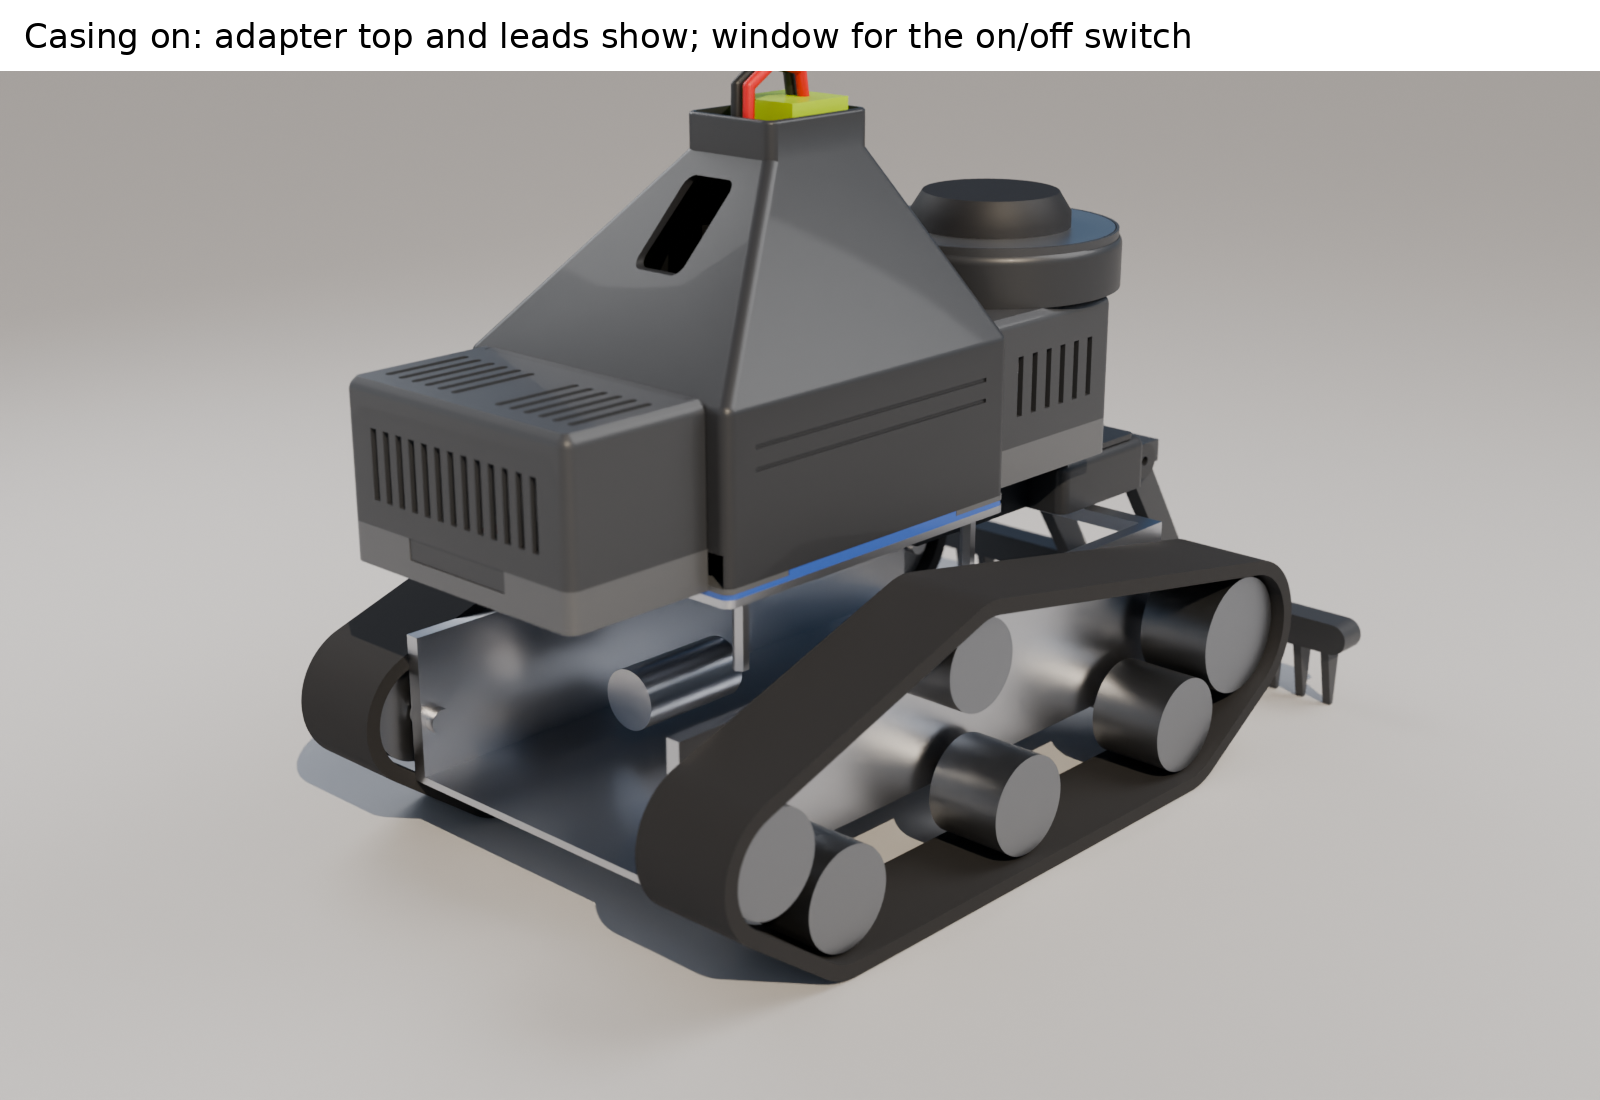
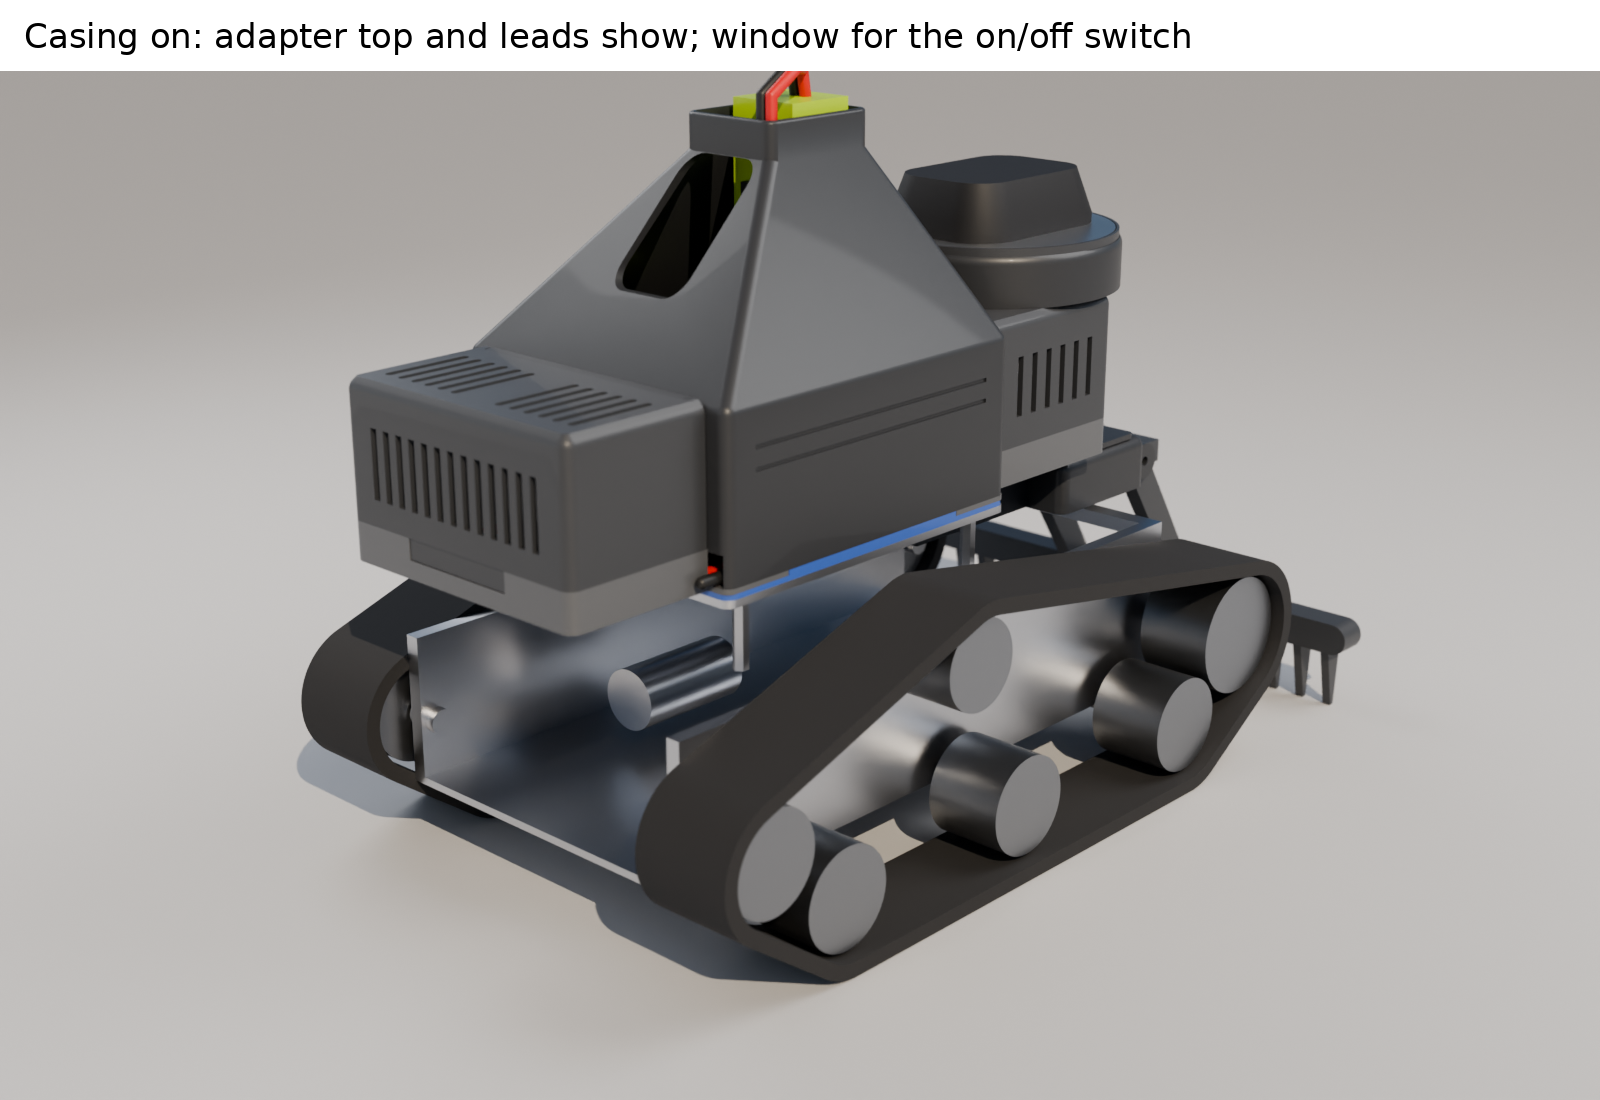
Show the battery leads' real route; model the ANN-MB antenna
The wiring diagram and 3D pictures had the adapter leads crossing the
middle of the battery. They now go down the front of the upright to the
left of the switch, over the front of the battery top, and down the gap
outside the left cradle wall (fuse holder there) into the left lane.
New front-view diagram and a hood-off render of the route.

The antenna pod pictures now show the u-blox ANN-MB at its real size
(82 x 60 x 22.5) on the steel ground plate. No printed part changes.

Claude-Session: https://claude.ai/code/session_011AZmCYsDWcDznu3RCMf8yA

Changed region(s): [[0.375, 0.0618, 0.5, 0.2782], [0.5625, 0.1236, 0.6875, 0.2164]]

diff --git a/CAD/DeckMount/drawings/make_drawings.py b/CAD/DeckMount/drawings/make_drawings.py
@@ -236,7 +236,7 @@ def wiring_drawing():
     for y in (by0 - 1 - WALL, by0 + BW + 1):
         ax.add_patch(Rectangle((bx0 + 3, y), BAY_L - 8, WALL, fc=BLUE, ec="none", alpha=0.6))
     ax.add_patch(Rectangle((bx0, by0), BL, BW, fc=ORANGE, ec="k", alpha=0.35))
-    ax.add_patch(Rectangle(((PL - AD_L) / 2, (PW - AD_W) / 2), AD_L, AD_W, fc=YEL, ec="k", alpha=0.5))
+    ax.add_patch(Rectangle((TOWER_CX - 55, (PW - AD_W) / 2), AD_L, AD_W, fc=YEL, ec="k", alpha=0.5))
     ax.add_patch(Rectangle((TOWER_CX - 15, PW / 2 - 15), 30, 30, fc=YEL, ec="k"))
     ax.add_patch(Rectangle((TW_CX - 24.5, PW / 2 - 19.5), 49, 39, fc="none", ec="#212529", lw=1.6, ls=":"))
     ax.text(TOWER_CX, PW / 2, "adapter\n30 x 30", ha="center", va="center", fontsize=9)
@@ -256,9 +256,13 @@ def wiring_drawing():
     def path(pts, col, lw=3.2, ls="-"):
         xs, ys = zip(*pts); ax.plot(xs, ys, color=col, lw=lw, ls=ls, solid_capstyle="round", solid_joinstyle="round")
     PWR, MOT, SIG = "#e03131", "#f08c00", "#1c7ed6"
-    # power: adapter leads drop down in front of the adapter, cross the battery top to the left lane, forward to both IBT-2s
-    path([(TW_CX - 25, PW / 2 + 4), (TW_CX - 25, 12.5), (-8, 12.5), (-8, IBT_POS[0][1] + 12), (IBT_POS[0][0] + 44, IBT_POS[0][1] + 12)], PWR)
-    path([(-8, 12.5), (-8, PW / 2), (-16, PW / 2), (-16, IBT_POS[1][1] + 12), (IBT_POS[1][0] + 44, IBT_POS[1][1] + 12)], PWR, lw=2.6)
+    # power: adapter leads drop down in front of the upright, LEFT of the switch, forward over the adapter base
+    # onto the front of the battery top, over its left edge, down beside it (fuse holder there), forward in the left lane
+    ax.add_patch(Rectangle((TOWER_CX - 19, PW / 2 - 7.5), 4, 15, fc="#212529", ec="none"))
+    ax.text(TOWER_CX - 21, PW / 2 + 9, "switch", fontsize=8, ha="right")
+    ax.add_patch(Rectangle((18.5, 15), 35, 10, fc="#343a40", ec="k"))
+    ax.text(36, 20, "fuse", color="white", fontsize=8, ha="center", va="center")
+    path([(TOWER_CX - 4, PW / 2 - 4), (TOWER_CX - 27.5, 51), (TOWER_CX - 60, 50), (36, 31), (36, 12.5), (-8, 12.5), (-8, IBT_POS[0][1] + 12), (IBT_POS[0][0] + 44, IBT_POS[0][1] + 12)], PWR)
     # thin 18 V feed to the UNO VIN along the right lane
     path([(-12, PW / 2 + 2), (-4, PW / 2 + 2), (-4, PW - 6), (PL + 10, PW - 6), (PL + 10, uy + 40), (ux + 60, uy + 40)], PWR, lw=1.6)
     # motor wires: up through the plate slots, along the lanes, into the IBT-2 motor terminals
@@ -268,8 +272,8 @@ def wiring_drawing():
     path([(ux + 50, uy + 48), (PL + 6, uy + 48), (PL + 6, PW - 12.5), (-6, PW - 12.5), (-6, PW / 2 + 10), (IBT_POS[0][0] + 44, IBT_POS[0][1] + 30)], SIG, lw=2)
     path([(-6, PW / 2 + 10), (-6, IBT_POS[1][1] + 25), (IBT_POS[1][0] + 44, IBT_POS[1][1] + 25)], SIG, lw=2)
     path([(ux + 20, uy + 50), (gx + 10, gy + 5)], SIG, lw=2)
-    ax.annotate("adapter leads leave its top and drop down\ninside the hood, in the 12 mm gap in front\nof the adapter (dotted = hood opening)",
-                xy=(TW_CX - 25, PW / 2 + 4), xytext=(TW_CX - 60, PW + 22), fontsize=9.5, arrowprops=dict(arrowstyle="->", lw=0.8))
+    ax.annotate("adapter leads: down the front of the upright to the\nLEFT of the switch, forward over the front of the battery\ntop, then down beside its left side (not through it)",
+                xy=(TOWER_CX - 27.5, 51), xytext=(TW_CX - 75, PW + 22), fontsize=9.5, arrowprops=dict(arrowstyle="->", lw=0.8))
     ax.annotate("hidden wire lanes under the hood\n(13 mm wide, between the cradle walls\nand the hood sides)", xy=(110, PW - 9), xytext=(150, PW + 22),
                 fontsize=9.5, arrowprops=dict(arrowstyle="->", lw=0.8))
     ax.annotate("motor wires come up from the chassis\nthrough the plate's edge slots", xy=(80, 6), xytext=(60, -30),
@@ -282,34 +286,46 @@ def wiring_drawing():
     ax.legend(handles=[Line2D([], [], color=PWR, lw=3, label="18 V power (adapter leads), thin branch to UNO VIN"),
                        Line2D([], [], color=MOT, lw=3, label="motor wires"),
                        Line2D([], [], color=SIG, lw=2, label="signals: UNO to IBT-2s and GPS")],
-              loc="upper right", bbox_to_anchor=(1.0, 1.08), fontsize=10, frameon=False)
+              loc="upper right", bbox_to_anchor=(1.0, 1.16), fontsize=10, frameon=False)
     ax.set_title("Top view with the casing removed (mm). Front on the left.", fontsize=13, loc="left")
     ax.set_xlim(-FRONT_OVH - 25, PL + REAR_OVH + 70); ax.set_ylim(-48, PW + 40); ax.set_aspect("equal"); ax.axis("off")
 
-    # side detail: the adapter leads
-    ax = fig.add_axes([0.05, 0.02, 0.45, 0.3])
-    top = FLOOR + TOTAL_H
-    ax.add_patch(Rectangle((0, FLOOR), PL, BODY_H, fc=ORANGE, ec="k", alpha=0.35))
-    ax.add_patch(Rectangle(((PL - AD_L) / 2, FLOOR + BODY_H), AD_L, 8, fc=YEL, ec="k"))
-    ax.add_patch(Rectangle((TOWER_CX - 15, FLOOR + BODY_H + 8), 30, AD_H - 8, fc=YEL, ec="k"))
-    hx = [0, 0, TW_CX - TOWER_OUT / 2, TW_CX - TOWER_OUT / 2]
-    hz = [FLOOR, CASE_TOP, CASE_TOP + SHOULDER, HOOD_TOP]
-    ax.plot(hx, hz, color="#212529", lw=2.2)
-    ax.plot([PL - x for x in hx][::-1] + [], hz[::-1], color="#212529", lw=2.2) if False else ax.plot([PL, PL, TW_CX + TOWER_OUT / 2, TW_CX + TOWER_OUT / 2], hz, color="#212529", lw=2.2)
-    lx = PL / 2 - 20.5
-    ax.plot([PL / 2 - 5, PL / 2 - 5, lx - 5, lx - 6, lx - 6, 14, 14, 14], [top - 1, top + 12, top + 12, top - 6, FLOOR + BODY_H + 12, FLOOR + BODY_H + 4, 30, FLOOR + 3],
-            color=PWR, lw=3, solid_joinstyle="round")
-    ax.text(PL / 2 + 6, top + 14, "only this loop of the adapter leads is outside", fontsize=10, color=PWR)
-    ax.text(16, 34, "down the side of the battery\ninto the wire lane", fontsize=9, color=PWR)
-    ax.text(PL + 6, CASE_TOP, "hood", fontsize=10)
-    ax.set_title("Adapter leads, side view", fontsize=12, loc="left")
-    ax.set_xlim(-10, PL + 70); ax.set_ylim(-4, top + 26); ax.set_aspect("equal"); ax.axis("off")
+    # front view (looking at the tank's front): where the adapter leads really go
+    ax = fig.add_axes([0.03, 0.0, 0.5, 0.33])
+    top = FLOOR + TOTAL_H; BT = FLOOR + BODY_H
+    by0 = (PW - BW) / 2; wy = by0 - 1 - WALL
+    ax.add_patch(Rectangle((0, 0), PW, FLOOR, fc="#ced4da", ec="k"))
+    for y in (wy, PW - wy - WALL):
+        ax.add_patch(Rectangle((y, FLOOR), WALL, WALL_H, fc=BLUE, ec="none", alpha=0.7))
+    ax.add_patch(Rectangle((by0, FLOOR), BW, BODY_H, fc=ORANGE, ec="k", alpha=0.35))
+    ax.text(PW / 2, FLOOR + 22, "battery", ha="center", fontsize=10)
+    ax.add_patch(Rectangle(((PW - AD_W) / 2, BT), AD_W, 8, fc=YEL, ec="k"))
+    ax.add_patch(Rectangle((PW / 2 - 15, BT + 8), 30, AD_H - 8, fc=YEL, ec="k"))
+    ax.add_patch(Rectangle((PW / 2 - 7.5, top - 50), 15, 20, fc="#212529", ec="k"))
+    ax.annotate("switch", xy=(PW / 2 + 7.5, top - 40), xytext=(PW / 2 + 34, top - 22), fontsize=9.5, arrowprops=dict(arrowstyle="->", lw=0.8))
+    hw = 19.5 + 2.4
+    ax.plot([0, 0, PW / 2 - hw, PW / 2 - hw], [FLOOR, CASE_TOP, CASE_TOP + SHOULDER, HOOD_TOP], color="#212529", lw=2.2)
+    ax.plot([PW, PW, PW / 2 + hw, PW / 2 + hw], [FLOOR, CASE_TOP, CASE_TOP + SHOULDER, HOOD_TOP], color="#212529", lw=2.2)
+    ax.add_patch(Rectangle((2.7, FLOOR), LANE_W, 12, fc="#fff3bf", ec="#e8b100", ls="--"))
+    ax.add_patch(Rectangle((15, 22), 10, 35, fc="#343a40", ec="k"))
+    ax.annotate("fuse holder hangs here,\nbeside the battery", xy=(15, 45), xytext=(-60, 70), fontsize=9.5, arrowprops=dict(arrowstyle="->", lw=0.8))
+    ax.plot([PW / 2 - 4, PW / 2 - 4, 51, 51, 50, 31, 26, 20, 20, 12, 12], [top - 2, top + 12, top + 12, BT + 10, BT + 2.5, BT + 2.5, BT + 1, BT - 6, 16, FLOOR + 3, FLOOR + 3],
+            color=PWR, lw=3, solid_joinstyle="round", solid_capstyle="round")
+    ax.annotate("leads drop LEFT of the switch,\ncross the battery's top near its\nfront end, then go down OUTSIDE\nthe cradle wall into the left lane", xy=(22, 30), xytext=(-62, 2),
+                fontsize=9.5, color=PWR, arrowprops=dict(arrowstyle="->", lw=0.8, color=PWR))
+    ax.text(PW + 4, CASE_TOP - 10, "hood", fontsize=10)
+    ax.text(8, -10, "tank's LEFT side", fontsize=9.5, ha="center", va="top", weight="bold")
+    ax.text(PW - 8, -10, "RIGHT side", fontsize=9.5, ha="center", va="top", weight="bold")
+    ax.set_title("Adapter leads, looking at the front of the tank (hood shown as an outline)", fontsize=12, loc="left")
+    ax.set_xlim(PW + 30, -65); ax.set_ylim(-22, top + 22); ax.set_aspect("equal"); ax.axis("off")
 
     ax = fig.add_axes([0.55, 0.02, 0.43, 0.27]); ax.axis("off")
     ax.text(0, 0.98, "Why it's routed this way", fontsize=13, weight="bold", va="top")
     ax.text(0, 0.86,
-            "The adapter's leads go down inside the hood's tower, in front of the adapter.\n"
-            "So the hood still lifts straight off over the adapter and its leads, and you\n"
+            "The adapter's leads go down inside the hood's tower, in front of the adapter\n"
+            "and to the left of its switch, so your finger reaches the switch. They cross\n"
+            "the front of the battery's top and go down beside it, outside the cradle wall.\n"
+            "So the hood still lifts straight off, the battery lifts out past them, and you\n"
             "don't have to unplug anything to change the battery.\n\n"
             "Everything else stays inside the casing. Motor wires come up from the chassis\n"
             "through the plate's edge slots under the hood. All runs between the trays use\n"

diff --git a/CAD/DeckMount/render/render.py b/CAD/DeckMount/render/render.py
@@ -89,6 +89,7 @@ views = {"front34": ((-0.50, -0.50, 0.26), (0.10, 0.06, -0.02)),
          "swap":   ((-0.5, -0.56, 0.5), (0.07, 0.06, 0.15)),
          "switchwin": ((-0.17, -0.10, 0.19), (0.075, 0.0675, 0.105)),
          "latch":  ((0.02, -0.36, 0.20), (0.085, 0.06, 0.045)),
+         "leads":  ((-0.20, -0.25, 0.28), (0.055, 0.04, 0.075)),
          "pod":    ((0.62, -0.30, 0.42), (0.20, 0.06, 0.07)),
          "hitch":  ((0.90, -0.64, 0.20), (0.22, 0.06, -0.035)),
          "trailer": ((0.95, -0.80, 0.42), (0.32, 0.06, -0.08))}

diff --git a/CAD/DeckMount/README.md b/CAD/DeckMount/README.md
@@ -81,10 +81,10 @@ Source: `hitch.scad`. It works like a small tractor hitch, so any tool swaps by 
 
 Source: `antenna_pod.scad`. A round pod sits on top of the rear cover, held by 3x M3 with nuts inside the cover:
 
-- **Antenna:** the magnetic antenna sits on your 102 mm steel plate. A 1/4-20 x 1/2" button-head bolt comes up through the pod lid into the plate's welded nut. A 1 mm lip around the plate keeps it centred.
-- **Cord storage:** under the lid is a cup with a 40 mm hub. Wind the spare antenna cable round the hub; 40 mm is gentle enough for RG174. The cable drops through a 10 mm hole into the rear tray, right above the GPS board, so an SMA plug fits through.
+- **Antenna:** a u-blox ANN-MB (82 x 60 x 22.5 mm, 5 m RG174 cable). Its magnetic base sticks to your 102 mm steel plate, so it needs no screws. Keep the plate: the antenna is a patch type, and u-blox specs it on a 150 mm metal ground plane. The plate is that ground plane, and it helps with gain and with rejecting signals bouncing up from below. A 1/4-20 x 1/2" button-head bolt comes up through the pod lid into the plate's welded nut. A 1 mm lip around the plate keeps it centred.
+- **Cord storage:** under the lid is a cup with a 40 mm hub. Wind the spare antenna cable round the hub; 40 mm is gentle enough for RG174, and the cup holds the spare of the 5 m cable with room to spare. The cable drops through a 10 mm hole into the rear tray, right above the GPS board, so an SMA plug fits through.
 - **Lid:** twists off with a 3-lug bayonet. Turn it so the notch in its rim faces the cable coming out of the antenna. That short piece from the antenna to the notch is the only bit of antenna cable that shows.
-- **Clearances:** the pod starts 8 mm behind the hood's lip, so the hood still lifts straight off. It sits about 70 mm above the hitch, clear of the lift arm. The antenna's top is about 110 mm above the plate, below the adapter's top.
+- **Clearances:** the pod starts 8 mm behind the hood's lip, so the hood still lifts straight off. It sits about 70 mm above the hitch, clear of the lift arm. The antenna's top is about 115 mm above the plate, below the adapter's top.
 
 | STL | Notes |
 |---|---|
@@ -99,7 +99,7 @@ Source: `antenna_pod.scad`. A round pod sits on top of the rear cover, held by 3
 
 ## Wire routing (only the adapter's leads show)
 
-- **Adapter leads** come out of the top of the adapter. They loop over and drop down inside the hood's tower, which has a 16.5 mm gap in front of the adapter for them, the 35 x 10 x 35 fuse holder and the rocker switch. The tower opening is 39 mm wide so the fuse holder passes up through it when the hood comes off. A 36 x 44 mm finger opening runs straight in through the hood's front slope and the tower's front face to the switch. Keep the leads and fuse holder to one side of the switch so the rocker stays clear. Inside, they cross the battery top to a side lane and run forward to the IBT-2s. Because the leads sit inside the tower opening, the hood still lifts straight off over them, and you don't unplug anything to change the battery. Leave about 150 mm of slack so the adapter can be set beside the tank.
+- **Adapter leads** come out of the top of the adapter. They loop over and drop down inside the hood's tower, in the 16.5 mm gap in front of the adapter, to the left of the rocker switch. A 36 x 44 mm finger opening runs straight in through the hood's front slope and the tower's front face to the switch. Keep the leads and fuse holder to one side of the switch so the rocker stays clear. Inside, they run forward over the adapter's base onto the front of the battery's top, over its left edge, and down the gap outside the left cradle wall (the 35 x 10 x 35 fuse holder hangs there). Then they run forward along the left lane to the IBT-2s. They never pass through or under the battery. Because the leads sit inside the tower opening, the hood still lifts straight off over them, and you don't unplug anything to change the battery. Leave about 150 mm of slack so the adapter can be set beside the tank.
 - **Hidden side lanes:** two 13 mm channels run the length of the plate between the cradle walls and the hood's sides. Passages in both ends of the hood lead into the trays, and notches in each tray's rib let the wires pass under the boards.
 - **Motor wires** come up from the chassis through the plate's edge slots, which are under the hood, and run forward along the lanes to the IBT-2 motor terminals (left motor to the left driver).
 - **Signals** (UNO to both IBT-2s) and a thin 18 V feed to the UNO's VIN run along the right lane between the trays. The GPS wiring stays inside the rear cover.

diff --git a/CAD/DeckMount/ASSEMBLY.md b/CAD/DeckMount/ASSEMBLY.md
@@ -100,7 +100,14 @@ The only wires that show outside the finished shell are the adapter's two leads.
 
 1. Drop the **P108 battery** straight down into the cradle, with its flat end toward the front and its curved end toward the rear.
 2. Slide the **Power Wheel adapter** onto the battery so its switch faces the front.
-3. The leads come out of the top of the upright. Loop them forward and down in front of the upright, and let the **fuse holder** hang in that gap, off to one side of the switch so your finger can reach the rocker. Then run them down to the side lane. Leave about 150 mm of slack so the adapter can be lifted off and set beside the tank.
+3. Route the adapter's two leads ([wiring diagram](images/08_wiring.png)). They never pass through or under the battery:
+   - Out of the top of the upright, loop them forward and down the front of the upright, **to the left of the switch** so your finger can reach the rocker.
+   - Lay them forward along the adapter's base and over its front edge onto the battery's top, near the battery's front end.
+   - Take them over the battery's **left** edge and down the gap between the left cradle wall and the hood side. Let the **fuse holder** hang upright in that gap, well in front of the battery's release button.
+   - At the bottom, run them forward along the left wire lane, under the hood's front end, to the IBT-2 B+ / B- terminals.
+   - Leave about 150 mm of slack so the adapter can be lifted off and set beside the tank.
+
+   ![](images/22_battery_leads.png)
 
 ## 9. Antenna pod (before the rear cover goes on)
 
@@ -109,7 +116,7 @@ The only wires that show outside the finished shell are the adapter's two leads.
 1. Set the **pod cup** on top of the rear cover, over the three holes. From inside the cover, fix it with 3x M3 x 10 and nuts.
 2. Feed the antenna's SMA plug down through the 10 mm hole in the cup's floor and the cover. It comes out above the GPS. Connect it to the GPS.
 3. Wind the spare cord round the cup's hub.
-4. Bolt the antenna's **steel plate** to the **lid** with the 1/4-20 button-head bolt from below, into the plate's welded nut. Stick the magnetic antenna on the plate.
+4. Bolt the antenna's **steel plate** to the **lid** with the 1/4-20 button-head bolt from below, into the plate's welded nut. Stick the magnetic ANN-MB antenna in the middle of the plate; it needs no screws. Keep the plate: it is the antenna's ground plane.
 5. Turn the lid onto the cup (a 3-lug bayonet twist), with the notch in its rim facing the antenna cable.
 
 ## 10. Covers and hood
@@ -118,7 +125,7 @@ The only wires that show outside the finished shell are the adapter's two leads.
 
 1. **Front cover:** hook its outer tab into the pocket in the front tray's bumper, then lower it until it sits on the tray walls. The nub clicks into its groove.
 2. **Rear cover:** the same on the rear tray. Its window lines up with the UNO's USB-C port.
-3. **Hood:** lower it straight down over the adapter, guiding the leads and the fuse holder up through the tower opening. Its two lips drop into the seats on the covers, which locks the covers down. Only the top 4 mm of the adapter and its leads stick out. The 36 x 44 mm finger opening in the front of the hood lines up with the switch.
+3. **Hood:** lower it straight down over the adapter, guiding the leads up through the tower opening. Its two lips drop into the seats on the covers, which locks the covers down. Only the top 4 mm of the adapter and its leads stick out. The 36 x 44 mm finger opening in the front of the hood lines up with the switch.
 
    ![](images/21_switch_opening.png)
 
